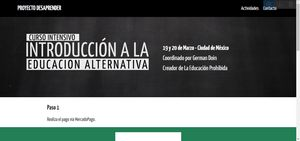
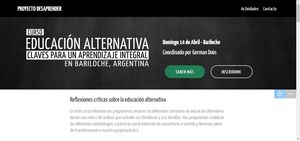
Elimina Taller Barilocho

diff --git a/desaprender.html b/desaprender.html
@@ -53,7 +53,7 @@
     </nav>
 </section>
 
-<section class="engine"><a href="https://mobirise.info/u">bootstrap responsive templates</a></section><section class="header3 cid-r7qnNRUAeB mbr-parallax-background" id="header3-1o">
+<section class="engine"><a href="https://mobirise.info/j">website templates</a></section><section class="header3 cid-r7qnNRUAeB mbr-parallax-background" id="header3-1o">
 
     
 
@@ -178,15 +178,15 @@
                         Agenda</h2>
                 </div>
                 <div class="clearfix"></div>
-                <div id="bootstrap-accordion_23" class="panel-group accordionStyles accordion" role="tablist" aria-multiselectable="true">
+                <div id="bootstrap-accordion_37" class="panel-group accordionStyles accordion" role="tablist" aria-multiselectable="true">
                     <div class="card">
                         <div class="card-header" role="tab" id="headingOne">
-                            <a role="button" class="panel-title collapsed text-black" data-toggle="collapse" data-core="" href="#collapse1_23" aria-expanded="false" aria-controls="collapse1">
+                            <a role="button" class="panel-title collapsed text-black" data-toggle="collapse" data-core="" href="#collapse1_37" aria-expanded="false" aria-controls="collapse1">
                                 <h4 class="mbr-fonts-style display-5">
                                     <span class="sign mbr-iconfont mbri-arrow-down inactive"></span>&nbsp;Viernes: ¿Quién soy?</h4>
                             </a>
                         </div>
-                        <div id="collapse1_23" class="panel-collapse noScroll collapse " role="tabpanel" aria-labelledby="headingOne" data-parent="#bootstrap-accordion_23">
+                        <div id="collapse1_37" class="panel-collapse noScroll collapse " role="tabpanel" aria-labelledby="headingOne" data-parent="#bootstrap-accordion_37">
                             <div class="panel-body p-4">
                                 <p class="mbr-fonts-style panel-text display-7">17:00 Hs
 <br>Llegada: Dinámica de presentación, desde el juego. 
@@ -199,14 +199,14 @@
                     </div>
                     <div class="card">
                         <div class="card-header" role="tab" id="headingTwo">
-                            <a role="button" class="collapsed panel-title text-black" data-toggle="collapse" data-core="" href="#collapse2_23" aria-expanded="false" aria-controls="collapse2">
+                            <a role="button" class="collapsed panel-title text-black" data-toggle="collapse" data-core="" href="#collapse2_37" aria-expanded="false" aria-controls="collapse2">
                                 <h4 class="mbr-fonts-style display-5">
                                     <span class="sign mbr-iconfont mbri-arrow-down inactive"></span>&nbsp;Sábado: ¿Qué hicieron conmigo?
 <div><br></div></h4>
                             </a>
                             
                         </div>
-                        <div id="collapse2_23" class="panel-collapse noScroll collapse" role="tabpanel" aria-labelledby="headingTwo" data-parent="#bootstrap-accordion_23">
+                        <div id="collapse2_37" class="panel-collapse noScroll collapse" role="tabpanel" aria-labelledby="headingTwo" data-parent="#bootstrap-accordion_37">
                             <div class="panel-body p-4">
                                 <p class="mbr-fonts-style panel-text display-7">8:30 Hs 
 <br>Desayuno
@@ -233,13 +233,13 @@
                     </div>
                     <div class="card">
                         <div class="card-header" role="tab" id="headingThree">
-                            <a role="button" class="collapsed text-black panel-title" data-toggle="collapse" data-core="" href="#collapse3_23" aria-expanded="false" aria-controls="collapse3">
+                            <a role="button" class="collapsed text-black panel-title" data-toggle="collapse" data-core="" href="#collapse3_37" aria-expanded="false" aria-controls="collapse3">
                                 <h4 class="mbr-fonts-style display-5">
                                     <span class="sign mbr-iconfont mbri-arrow-down inactive"></span>&nbsp;Domingo: ¿Qué hago yo con lxs demás?
 </h4>
                             </a>
                         </div>
-                        <div id="collapse3_23" class="panel-collapse noScroll collapse" role="tabpanel" aria-labelledby="headingThree" data-parent="#bootstrap-accordion_23">
+                        <div id="collapse3_37" class="panel-collapse noScroll collapse" role="tabpanel" aria-labelledby="headingThree" data-parent="#bootstrap-accordion_37">
                             <div class="panel-body p-4">
                                 <p class="mbr-fonts-style panel-text display-7">8:30 Hs 
 <br>Meditación Activa

diff --git a/taller.html b/taller.html
@@ -7,8 +7,8 @@
   <meta name="generator" content="Mobirise v4.9.1, mobirise.com">
   <meta name="viewport" content="width=device-width, initial-scale=1, minimum-scale=1">
   <link rel="shortcut icon" href="assets/images/grupo-128x63.png" type="image/x-icon">
-  <meta name="description" content="Próximo Curso en San Carlos de Bariloche">
-  <title>Curso Taller en Bariloche</title>
+  <meta name="description" content="">
+  <title>Curso Taller</title>
   <link rel="stylesheet" href="assets/web/assets/mobirise-icons/mobirise-icons.css">
   <link rel="stylesheet" href="assets/tether/tether.min.css">
   <link rel="stylesheet" href="assets/bootstrap/css/bootstrap.min.css">
@@ -53,7 +53,7 @@
     </nav>
 </section>
 
-<section class="engine"><a href="https://mobirise.info/p">site templates free download</a></section><section class="header3 cid-rjW6AeZTAV mbr-parallax-background" id="header3-41">
+<section class="engine"><a href="https://mobirise.info/t">amp templates</a></section><section class="header3 cid-rjW6AeZTAV mbr-parallax-background" id="header3-41">
 
     
 
@@ -265,7 +265,7 @@
         <div class="row justify-content-center content-row">
             <div class="media-container-column title col-12 col-lg-7 col-md-6">
                 <h3 class="mbr-section-subtitle align-left mbr-light pb-3 mbr-fonts-style display-5"><strong>Inscripción</strong></h3>
-                <h2 class="align-left mbr-bold mbr-fonts-style display-7"><span style="font-weight: normal;">El taller se realizará el Domingo 13 Abril de 2019&nbsp;</span><span style="font-weight: normal;">de 10 a 18hs en Los Maitenes SUM, Bariloche, Argentina.</span><br><div><br></div></h2>
+                <h2 class="align-left mbr-bold mbr-fonts-style display-7"><span style="font-weight: normal;">El taller se realizará el Domingo 14 Abril de 2019&nbsp;</span><span style="font-weight: normal;">de 10 a 18hs en Los Maitenes SUM, Bariloche, Argentina.</span><br><div><br></div></h2>
             </div>
             <div class="media-container-column col-12 col-lg-3 col-md-4">
                 <div class="mbr-section-btn align-right py-4"><a class="btn btn-primary display-4" href="bariloche-inscripcion.html">VER COSTOS E INSCRIPCION</a></div>

diff --git a/index.html b/index.html
@@ -136,11 +136,11 @@
                         <img src="assets/images/grupo-1-676x332.png" alt="Mobirise" title="">
                     </div>
                     <div class="card-box">
-                        <h4 class="card-title mbr-fonts-style display-7"><strong>Claves para un aprendizaje integral</strong><br>14 de Abril en Bariloche</h4>
+                        <h4 class="card-title mbr-fonts-style display-7"><strong>Claves para un aprendizaje integral</strong><br><br></h4>
                         <p class="mbr-text mbr-fonts-style display-7">Un curso intensivo que nos invita recorrer la diversidad de experiencias educativas alternativas, conociendo sus diferencias, matices, elementos comunes y contradicciones.</p>
                     </div>
-                    <div class="mbr-section-btn text-center"><a href="bariloche.html" class="btn btn-primary display-4">
-                            MÁS INFORMACIÓN</a></div>
+                    <div class="mbr-section-btn text-center"><a href="index.html" class="btn btn-primary-outline display-4">
+                            PROXIMAMENTE</a></div>
                 </div>
             </div>
 

diff --git a/taller-inscripcion.html b/taller-inscripcion.html
@@ -52,7 +52,7 @@
     </nav>
 </section>
 
-<section class="engine"><a href="https://mobirise.info/x">free css templates</a></section><section class="header3 cid-rbdiFFcSJG mbr-parallax-background" id="header3-3j">
+<section class="engine"><a href="https://mobirise.info/n">free simple web templates</a></section><section class="header3 cid-rbdiFFcSJG mbr-parallax-background" id="header3-3j">
 
     
 

diff --git a/desaprender-inscripcion.html b/desaprender-inscripcion.html
@@ -52,7 +52,7 @@
     </nav>
 </section>
 
-<section class="engine"><a href="https://mobirise.info/t">free amp template</a></section><section class="header3 cid-r7TvRGX9xJ mbr-parallax-background" id="header3-2s">
+<section class="engine"><a href="https://mobirise.info/b">create a site</a></section><section class="header3 cid-r7TvRGX9xJ mbr-parallax-background" id="header3-2s">
 
     
 

diff --git a/quienes.html b/quienes.html
@@ -52,7 +52,7 @@
     </nav>
 </section>
 
-<section class="engine"><a href="https://mobirise.info/c">free website builder</a></section><section class="mbr-section content4 cid-r7qFN8rQj1" id="content4-2p">
+<section class="engine"><a href="https://mobirise.info/e">make your own website for free</a></section><section class="mbr-section content4 cid-r7qFN8rQj1" id="content4-2p">
 
     
 
